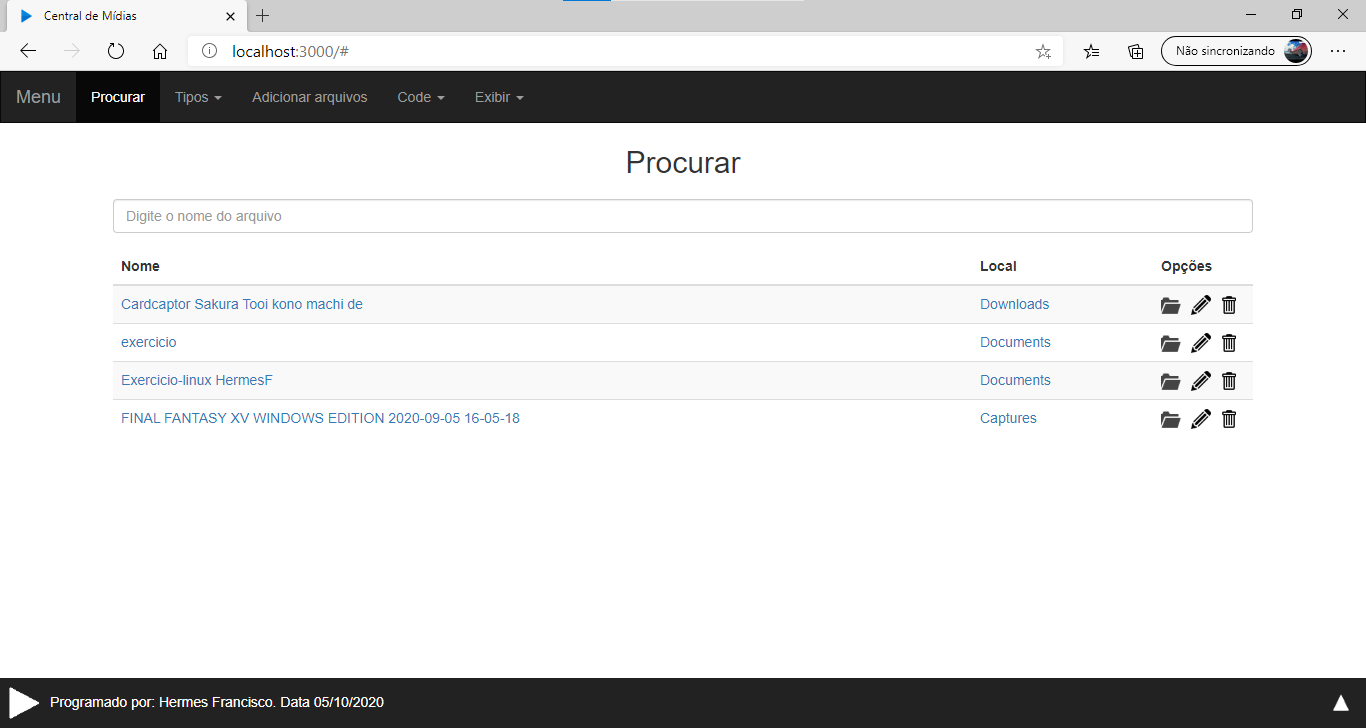
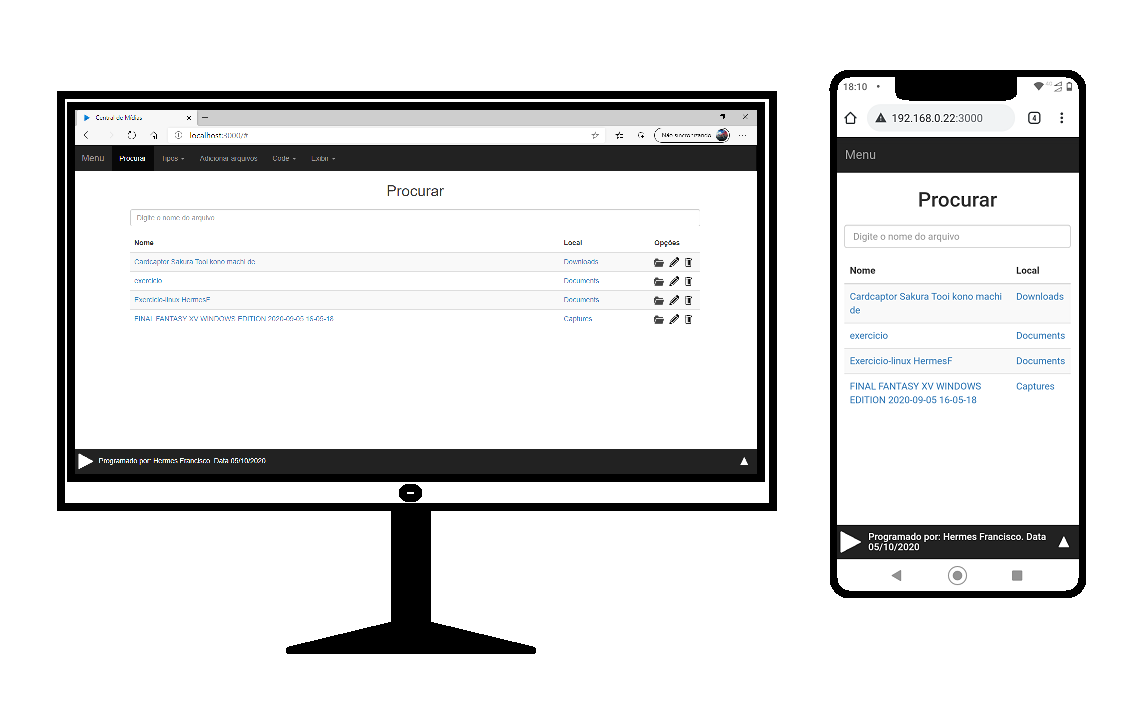
manual

diff --git a/README.md b/README.md
@@ -2,6 +2,8 @@
 
 Software para organização e compartilhamento de mídias.
 
+<img src="./manual/1.png" height="300px">
+
 ## Pré requesitos
 
 É necessário ter previamente instalado em sua máquina os seguintes softwares.

diff --git a/Manual.md b/Manual.md
@@ -2,4 +2,8 @@
 
 Esse documento irá explicar as funções da Central de Mídias
 
-![](./manual/1.png?w=100)
+![](./manual/Tela_inicial.png)
+
+## Menu
+
+![](./manual/menu.png)
